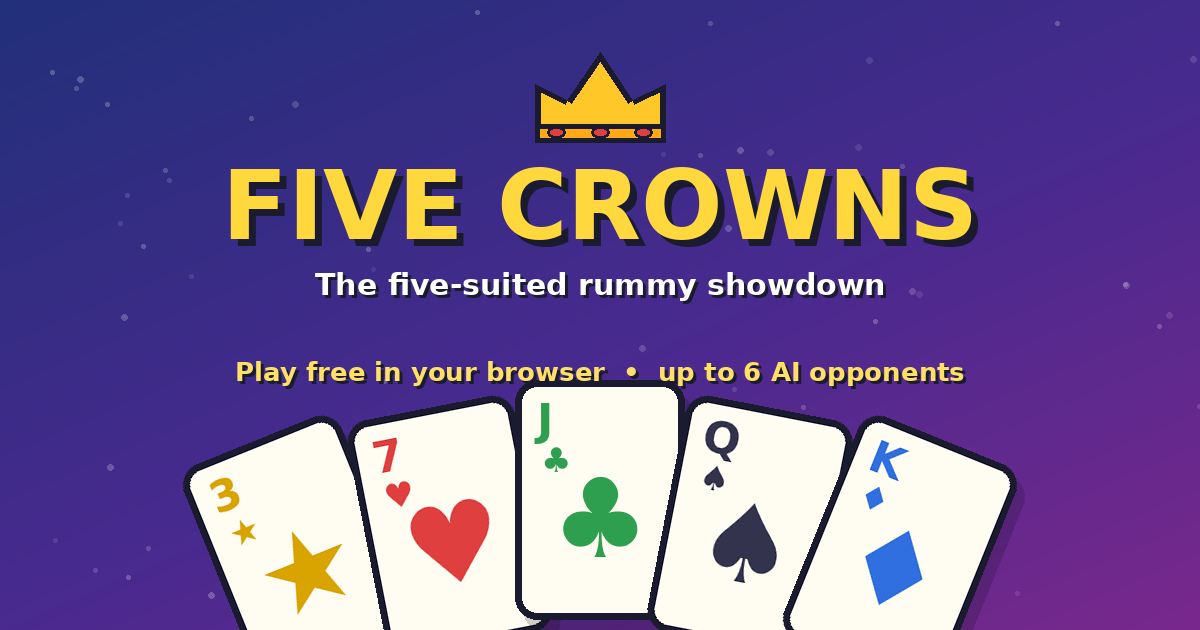
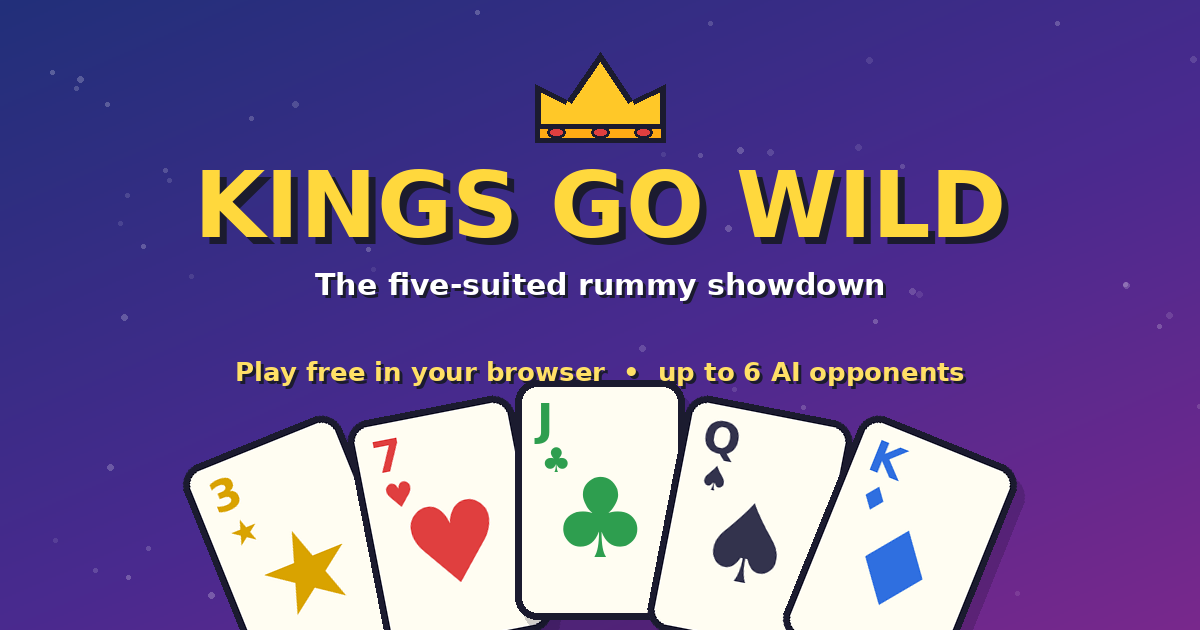
Rebrand to Kings Go Wild

Changed region(s): [[0.1542, 0.2413, 0.8633, 0.3921]]

diff --git a/index.html b/index.html
@@ -6,19 +6,19 @@
 <meta name="theme-color" content="#22307a">
 <meta name="apple-mobile-web-app-capable" content="yes">
 <meta name="apple-mobile-web-app-status-bar-style" content="black-translucent">
-<title>Five Crowns 👑</title>
-<meta name="description" content="Play Five Crowns free in your browser — the five-suited rummy game with up to 6 AI opponents, 11 rounds, and rotating wild cards.">
-<meta property="og:title" content="Five Crowns 👑">
+<title>Kings Go Wild 👑</title>
+<meta name="description" content="Play Kings Go Wild free in your browser — a five-suited rummy card game with up to 6 AI opponents, 11 rounds, and rotating wild cards.">
+<meta property="og:title" content="Kings Go Wild 👑">
 <meta property="og:description" content="Play the five-suited rummy showdown free in your browser — up to 6 AI opponents with adjustable skill levels.">
 <meta property="og:type" content="website">
-<meta property="og:url" content="https://fivecrowns.lubbert.com/">
-<meta property="og:image" content="https://fivecrowns.lubbert.com/og-image.png">
+<meta property="og:url" content="https://kingsgowild.lubbert.com/">
+<meta property="og:image" content="https://kingsgowild.lubbert.com/og-image.png">
 <meta property="og:image:width" content="1200">
 <meta property="og:image:height" content="630">
 <meta name="twitter:card" content="summary_large_image">
-<meta name="twitter:title" content="Five Crowns 👑">
+<meta name="twitter:title" content="Kings Go Wild 👑">
 <meta name="twitter:description" content="Play the five-suited rummy showdown free in your browser — up to 6 AI opponents.">
-<meta name="twitter:image" content="https://fivecrowns.lubbert.com/og-image.png">
+<meta name="twitter:image" content="https://kingsgowild.lubbert.com/og-image.png">
 <style>
 @import url('https://fonts.googleapis.com/css2?family=Press+Start+2P&family=Baloo+2:wght@500;700;800&display=swap');
 *{box-sizing:border-box;margin:0;padding:0;-webkit-user-select:none;user-select:none;-webkit-tap-highlight-color:transparent;-webkit-touch-callout:none}
@@ -227,7 +227,7 @@ table.scoretab{border-collapse:collapse;margin:6px auto;font-size:14px;width:100
 <div id="setup">
   <div class="setup-box panel">
     <div class="setup-head">
-      <div class="title"><span class="crown">👑</span>FIVE CROWNS</div>
+      <div class="title"><span class="crown">👑</span>KINGS GO WILD</div>
       <div class="subtitle">★ The five-suited rummy showdown ★</div>
     </div>
     <div class="setup-row"><label>Your name</label><input type="text" id="pname" value="Glen" maxlength="12"></div>
@@ -246,7 +246,7 @@ table.scoretab{border-collapse:collapse;margin:6px auto;font-size:14px;width:100
 <!-- ============ GAME ============ -->
 <div id="game" class="hidden">
   <header>
-    <div class="gametitle">👑 FIVE CROWNS</div>
+    <div class="gametitle">👑 KINGS GO WILD</div>
     <div class="roundchip" id="roundChip"></div>
     <div class="wildchip" id="wildChip"></div>
     <div class="spacer"></div>

diff --git a/README.md b/README.md
@@ -1,2 +1,11 @@
-# five-crowns
-Five Crowns — playable card game vs AI opponents
+# Kings Go Wild 👑
+
+A free, browser-based five-suited rummy card game. Play against up to 6 AI opponents with adjustable skill levels.
+
+**Play now:** https://kingsgowild.lubbert.com/
+
+## How it works
+
+11 rounds, dealing 3 to 13 cards. Each round, the card matching the hand size is wild (3s in round one… Kings in the final round), and Jokers are always wild. Arrange your whole hand into books and runs, go out, and force everyone else to count their leftovers. Lowest total score wins.
+
+Built as a single HTML file — no dependencies, no build step.